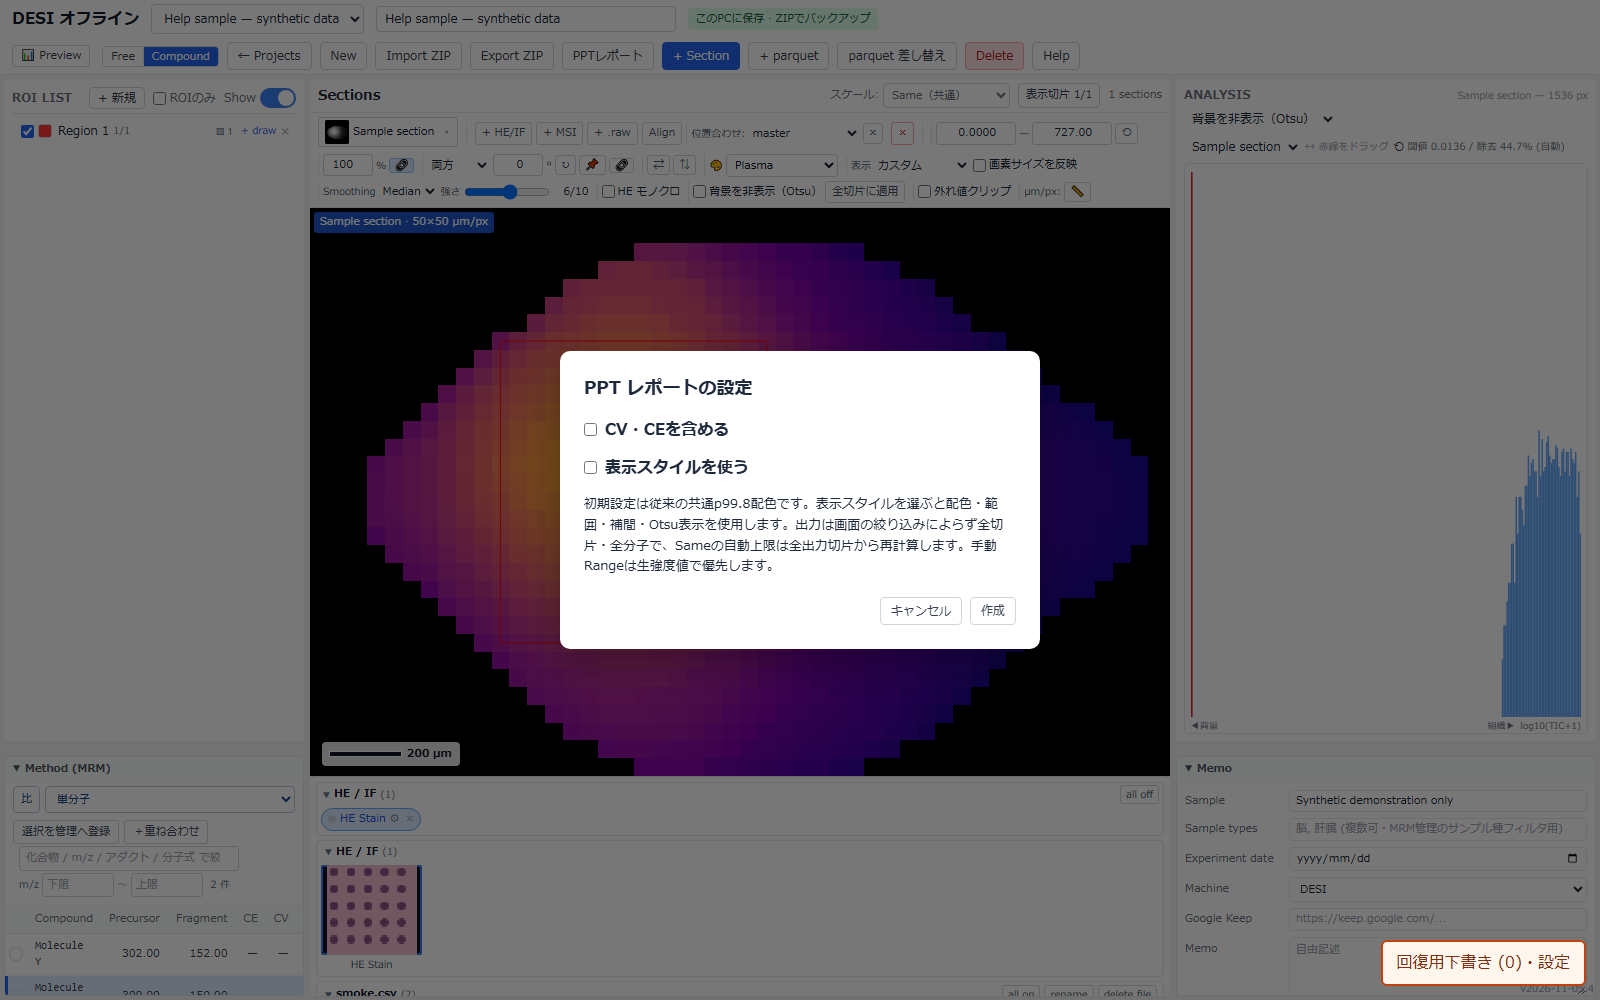
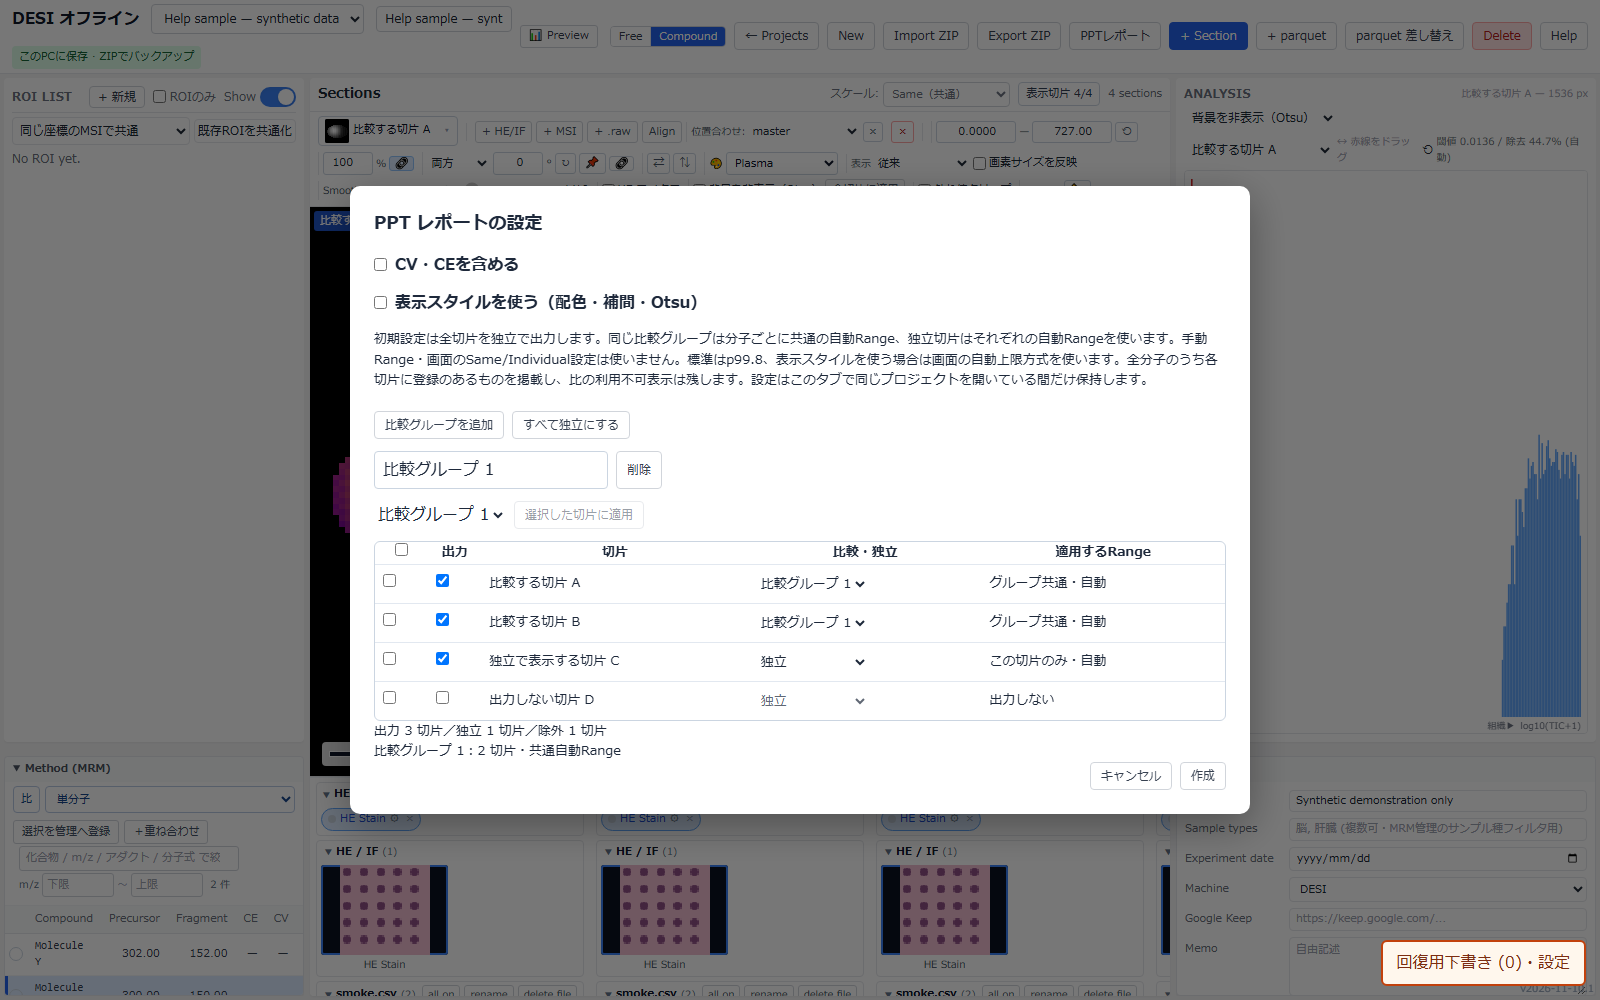
Refresh PPT grouping help and clarify editable group names

diff --git a/viewer/project-report-app.js b/viewer/project-report-app.js
@@ -698,6 +698,7 @@
             for (const group of state.groups) {
                 const line=el('div');line.setAttribute('data-report-group-id',group.id);line.style.cssText=toolbar.style.cssText;
                 const name=el('input'); name.type='text';name.value=group.name;name.maxLength=120;name.required=true;
+                name.style.cssText='border:1px solid #cbd5e1;border-radius:4px;padding:6px 8px;background:white;max-width:100%';name.title='比較グループ名';name.placeholder='比較グループ名';
                 name.setAttribute('data-report-group-name','');name.setAttribute('aria-label','比較グループ名');
                 const remove=button('削除','data-report-delete-group'); remove.setAttribute('aria-label',group.name+'を削除');
                 name.addEventListener('input',()=>{
